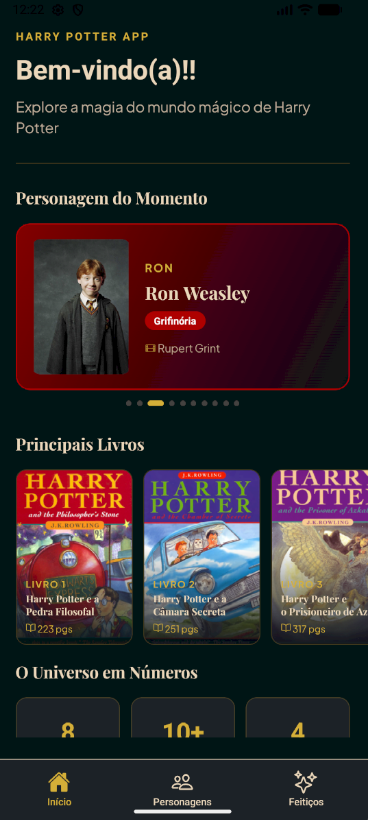
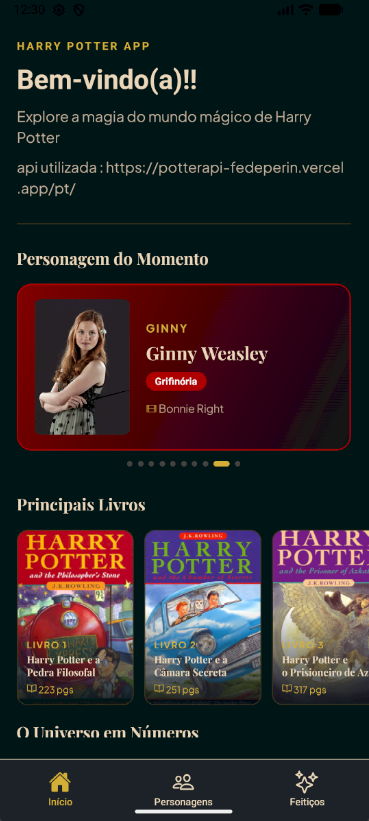
Adicionando prints das telas

diff --git a/src/screens/Home.jsx b/src/screens/Home.jsx
@@ -131,6 +131,7 @@ export default function HomeScreen() {
                         <Text style={homeStyles.subtitle}>
                             Explore a magia do mundo mágico de Harry Potter
                         </Text>
+                        <Text style={homeStyles.subtitle}>api utilizada : https://potterapi-fedeperin.vercel.app/pt/</Text>
                     </View>
 
                     <View style={homeStyles.divider} />
